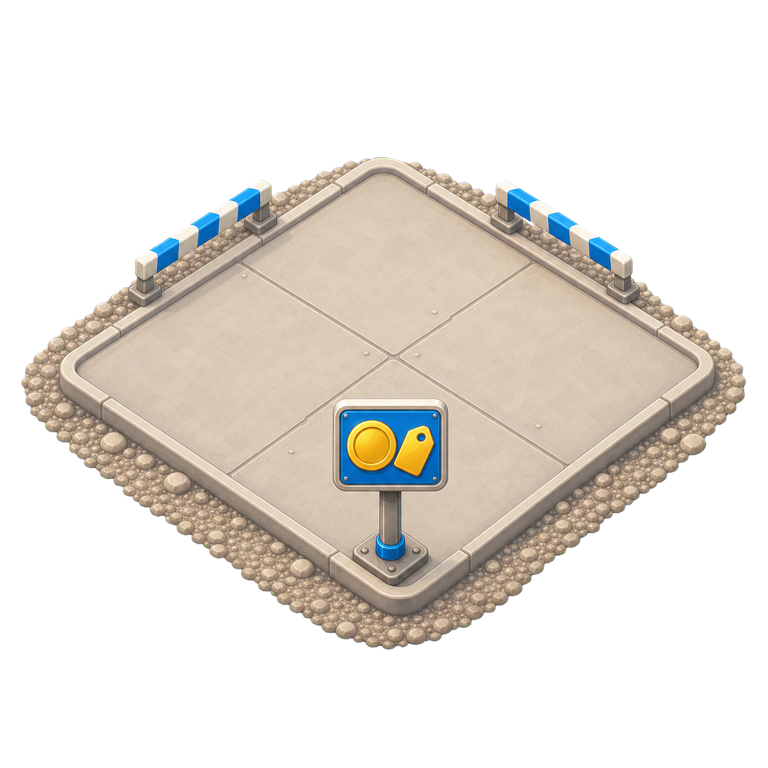
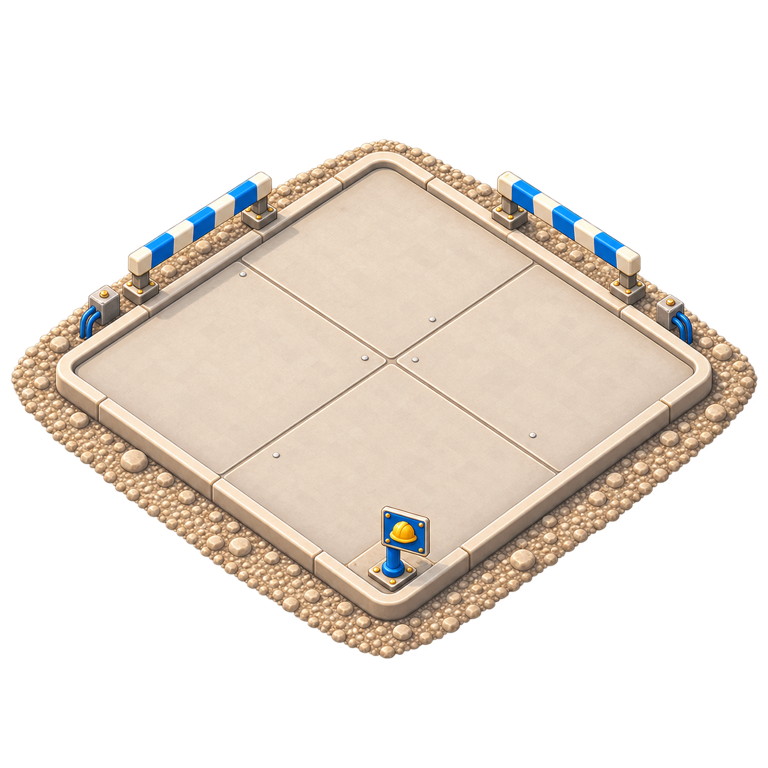
art: refresh five weak production assets

diff --git a/docs/23_asset_refresh_and_ship.md b/docs/23_asset_refresh_and_ship.md
@@ -1,0 +1,80 @@
+# 23 · 弱资产重做与 build 10 发船（Codex 执行文档）
+
+> 生成于 2026-08-28。方向已由项目所有者确认，作为本批次的**唯一执行依据**。
+> 前置阅读：[22_release_hardening.md](22_release_hardening.md) 与 [22_content_audit.md](22_content_audit.md) §2（五张弱资产的问题描述与重生成 prompt 已备好，本文不重复）。基线：`32af9cb`（22 号验收修复已入）。
+> **定性：美术替换 + 运维发船，零玩法改动。** 不改任何数值字段、不动随机流；20 种子模拟输出与基线逐字一致（19.3 天中位、23.67×）。
+
+## 1. 工作项
+
+### F1 · 先推送，补上 CI 远端证据
+
+1. `git push origin main`（当前 10 个本地 commit）。
+2. 等 GitHub Actions 完整跑一次（含 22 号新增的 tutorial_playthrough / main 分支 campaign / performance --ci / 六档视觉矩阵）。
+3. 把 run 链接填进 22 号验收记录那格未勾选的「远端 CI 证据」，勾掉它，单独提交。CI 若红，先修再继续——**红着不许进 F2**。
+
+### F2 · 五张弱资产重做（prompt 以 22_content_audit §2 为准）
+
+按顺序做，一张一验，全部走 `art-renders work/ → final/ → assets/art/` 管线 + `import_assets.py`，英文 prompt 全文入 `final_prompt_record.md`，E1 的导入分类由 `check_assets` 自动约束（fx_*/plot_* 归 vram_scene，panel/dialog 归 lossless_ui）。
+
+| 序 | 资产 | 额外纪律（prompt 之外必须遵守的） |
+|---|---|---|
+| 1 | `fx_glow_ring` | 13 号 FX 自毁与 ≤100u 预算不变；替换后跑 `performance_smoke` 确认粒子/节点仍零残留 |
+| 2 | `fx_confetti_set` | 同上；时代号外双喷彩屑的锚点与尺寸参数不动，只换贴图 |
+| 3 | `plot_forsale` | **先确认地图实际渲染的是哪个资产**——`park_map.gd` 存在 `plot_pad_sale` 优先、`plot_forsale` 回退的链路，重做玩家真正看到的那张；两张都在则保持链路语义不变 |
+| 4 | `panel_main` | 九宫格是 08/09 号的重灾区：新图必须**逐边实测边框厚度**（PIL 量法沿用 08 号），与 `ThemeMaker` 现有 texture_margin/content_margin 对齐；对不齐就改 margin 并全量视觉回归，绝不允许文字压框回归 |
+| 5 | `dialog_bubble` | 教程气泡已是「动态尾巴」系统（`a90067e` 重构）：先读现行 callout 代码消费哪些切片，按现行运行时契约交付无尾主体 + 分离尾巴件；不改 callout 逻辑 |
+
+**每张的验收**：涉及该资产的双语视觉状态前后对照入 `docs/ui_review/23_asset_refresh/`（fx 两张对 era_unlock/庆祝态、plot 对地图空场态、panel 对任一系统页、bubble 对教程聚光灯态）；`check_assets --strict` 全绿；替换不引入任何 .gd/.json 玩法改动。
+
+**全部完成后**：双语 standard 49 态 + SE/iPad 各 8 态全绿；`test_runner` / `flow_audit` / `midgame_audit` / `tutorial_playthrough` / `full_campaign` / `performance_smoke` 全绿；模拟器零漂移。
+
+### F3 · build 10 发 TestFlight
+
+1. F2 全绿并提交后，`git push origin main`，确认 CI 绿。
+2. 用 22 号的正式管线发船：`tools/release_ios.sh --bump --upload`（bump 后 build 号应为 10；export_presets 改动纳入提交）。
+3. 上传成功记录（`UPLOAD SUCCEEDED` 日志摘录 + xcarchive 归档到 `builds/archives/`）写进本文验收记录；`release_checklist.md` 同步。
+4. 若 ASC 报重复 build 号，按脚本提示再 `--bump`，如实记录原因。
+
+## 2. 明确不做
+
+- 只重做点名的五张；不顺手重做其他资产、不调整任何布局/配色/文案。
+- 不动 FX 参数、九宫格 margin 语义之外的任何 UI 代码；dialog_bubble 不改 callout 逻辑。
+- 商店截图、隐私链接、Instruments、StoreKit sandbox 仍属外部交付，不在本批。
+
+## 3. 给执行者的注意事项
+
+1. 美术生成不达标就重roll，不许降级合入——这五张全是「观感短板」名单，换上去必须明显更协调，拿不准就在前后对照里并排给出并停下等所有者裁决。
+2. `panel_main` 影响几乎每个系统页，是本批唯一的高爆改动：margin 实测数据（每边像素厚度）写进验收记录，全量 49 态跑两个 locale，重点看长文案页（设置、典藏、商店）。
+3. 发船前后各跑一次 `git status` 确认工作区全净；上传用的 IPA 备份到桌面，命名沿用 `DataCenterTycoon-1.0.0-build10.ipa`。
+4. 本文验收记录格式沿用 20/21/22 号，逐项附证据。
+
+## 4. 验收记录（2026-08-28）
+
+### F1 · 远端 CI 证据
+
+- [x] 基线后的 10 个本地提交已推送到 `origin/main`。
+- [x] 22 号新增门禁在 GitHub Actions 完整跑通：[CI run 33180099937](https://github.com/GaoJiasheng/DataCenterTycoon/actions/runs/33180099937)。该 run 覆盖 243 项逻辑、flow/midgame/tutorial/full campaign、performance `--ci`、standard/SE/iPad 中英视觉矩阵。
+- [x] 远端运行中暴露的跨 runner 设置拖动、显式预览尺寸、询价 fixture 漂移和棋盘换页竞态均先修至绿色；22 号验收记录的远端证据格已单独提交（`d68b0da`）。
+
+### F2 · 五张弱资产
+
+- [x] 五张资产严格按 `fx_glow_ring → fx_confetti_set → plot → panel_main → dialog_bubble` 顺序逐张生成、验图、导入；完整 prompt 与 ImageGen 源路径见 [最终 prompt 记录](../art-renders/briefs/final_prompt_record.md)。
+- [x] 地图实际消费链路经 `park_map.gd` 核实后替换 `plot_pad_sale`，保留 `plot_forsale` 缺失回退，未改链路语义。
+- [x] `panel_main` PIL 中心扫描：旧上/下/左/右为 `100/102/96/102px`，新图为 `96/102/92/93px`。现有 0.5 倍纹理 + 52u 切片折算为源图 104px，四边与角件均完整落入切片；56u 内容留白继续清出边框，因此 margin 无需改变。中英离线页、时代页未出现文字压框。
+- [x] `dialog_bubble` 运行时契约核实为：教程主体使用双层扁平组件，三层动态 `Polygon2D` 尾巴按目标中心放置；PNG 是未被现行教程消费的九宫格回退。新图仅含无尾主体，旧固定左尾已去除；新上/下/左/右边框实测 `57/56/50/49px`，回退接口切片校准为 `52/58/52/58`、内容留白为 `60/66/60/66`，未改 callout 逻辑。
+- [x] 原图及中英运行态前后证据集中在 [23_asset_refresh](ui_review/23_asset_refresh/README.md)；生成中淘汰了闭合圆环、假棋盘透明和深底失读稿，未把不达标结果降级合入。
+- [x] `python3 tools/check_assets.py --strict --audio`：180/180 美术、23/23 音频通过；FX/地图为 `vram_scene`，UI 九宫格为 `lossless_ui`。
+- [x] `test_runner` 243/243、`flow_audit`、`midgame_audit`、`tutorial_playthrough`、`full_campaign` 全绿；整局仍在同一局断言询价、成组、扩编与稀有锁价封顶。
[1 lines of base64/hex data omitted]
+- [x] `python3 tools/report_release_economy.py` 完整复跑：T2 六档 × 20 种子、工程部 L4、钻石三策略 × 三时代 × 20 种子均通过；三份 CSV 与基线字节一致，未产生数值报告漂移。
+- [x] standard 中英 49 态、SE 中英各 8 态、iPad 中英各 8 态全部通过；外部高负载退出后重新取样，未把受干扰的截帧当作证据。
+- [x] `performance_smoke` 在无外部探针竞争时重跑通过：平均 `6.95ms`、p90 `11.02ms`、p95 `15.46ms`；峰值 30 粒子归零、猫特效 `1→0`、节点增量 0。
+- [ ] F2 提交、推送及远端 CI 证据待上述本地门禁收口。
+
+### 已知外部发布交付（不在本批范围）
+
+- `check_app_store_assets.py` 仍报告缺失 iPhone/iPad 中英商店截图；`check_release.py` 另报告隐私/支持 URL、P04 与 StoreKit 插件占位。这些项目在本文 §2 明确属于外部交付，本批没有伪造或越权补齐。
+
+### F3 · build 10
+
+- [ ] 等 F2 推送且远端 CI 全绿后执行 `tools/release_ios.sh --bump --upload`。

diff --git a/art-renders/briefs/final_prompt_record.md b/art-renders/briefs/final_prompt_record.md
@@ -252,3 +252,57 @@ Shared production direction: one coherent orange tabby with cream muzzle/chest/p
 - `collection_cat_watch`: Cat watching the lit campus at twilight. Source: `/Users/gavin/.codex/generated_images/019fbe5f-c128-7711-b816-3e32148cf91a/exec-3b8cbfc1-cadf-4490-ad7b-bc4e2c9a55d7.png`
 - `collection_cat_festival`: Sunglasses cat celebrating a rare market with tasteful campus decorations. Source: `/Users/gavin/.codex/generated_images/019fbe5f-c128-7711-b816-3e32148cf91a/exec-1d637ca8-48d0-4b23-81a7-16535824c727.png`
 - `fx_cat_heart`: One warm coral painterly heart with tiny gold sparkles, transparent particle sprite. Source: `/Users/gavin/.codex/generated_images/019fbe5f-c128-7711-b816-3e32148cf91a/exec-c49ff4d9-5b81-4285-8293-fc8ea44a1edc.png`
+
+## 2026-08-28 · 23 号弱资产重做
+
+### `fx_glow_ring`
+
+```text
+A standalone transparent RGBA VFX sprite, 512x512 square, for a premium cozy isometric data-center tycoon. Show a low wide asymmetrical celebration bloom made of three OPEN wisps of soft electric-blue volumetric mist, small warm-gold glow pockets, and a restrained handful of tiny rising brass sparks. It sits behind and under a machine, so keep the center calm and the silhouette low. Absolutely no closed loop, no circle, no ring, no halo, no donut, no spiral, no geometric outline, no vertical laser beam, no magenta, no rainbow, no text, no border, no building, no ground plane. Premium rendered 3D game art, coherent top-left light, restrained blue/gold/ivory palette, organic falloff, readable but subtle at 128 px. REQUIRE genuine transparent alpha outside the effect. Do not draw a checkerboard, white background, black background, or any background pattern.
+```
+
+- ImageGen 原图：`/Users/gavin/.codex/generated_images/019fbe5f-c128-7711-b816-3e32148cf91a/exec-0ba8b80e-9ef4-4703-8251-aa7b2f1f76ba.png`
+- 管线源图：`visual/work/23_asset_refresh/fx/fx_glow_ring_source.png`
+- 正式交付：`visual/final/fx/fx_glow_ring.png`
+
+### `fx_confetti_set`
+
+```text
+Transparent premium isometric reward burst made from miniature gold server badges, blue data packets, tiny brass bolts and soft paper flecks; coherent top-left lighting, restrained blue/gold/ivory palette, varied depth and natural trajectories, no primitive circles, no candy shapes, no text, no frame. Asset type: standalone transparent RGBA celebration particle sprite for a premium cozy data-center mobile tycoon, 512x512 square composition, readable at 128 px. Each piece must be a small tactile rendered object with material and volume, arranged as an open upward burst with a calm center so it does not cover the building. Genuine transparent alpha only; do not draw a checkerboard or background pattern.
+```
+
+- ImageGen 原图：`/Users/gavin/.codex/generated_images/019fbe5f-c128-7711-b816-3e32148cf91a/exec-cc0f3597-f929-4977-8c6c-894336767dd8.png`
+- 管线源图：`visual/work/23_asset_refresh/fx/fx_confetti_set_source.png`
+- 正式交付：`visual/final/fx/fx_confetti_set.png`
+
+### `plot_pad_sale`
+
+```text
+Transparent isometric undeveloped parcel for a modern data-center campus, matching the existing blue/gold industrial buildings: compacted gravel and pale concrete survey corners, subtle conduit stubs, small blue construction marker, same camera and shadow direction as dc_t1, clean silhouette, no farm soil, no wooden fence, no text. Asset type: production-ready sale plot pad for a premium cozy mobile tycoon, 768x768 square, exact centered diamond/isometric footprint, coherent top-left light, warm cream concrete with restrained royal-blue and brass details, readable at map scale. Keep the construction marker small and off the main build footprint. Genuine transparent alpha outside the parcel; no checkerboard, no frame, no UI price tag, no characters.
+```
+
+- ImageGen 原图：`/Users/gavin/.codex/generated_images/019fbe5f-c128-7711-b816-3e32148cf91a/exec-6cffdce1-67a4-42b3-bc80-0bbe0f481162.png`
+- 管线源图：`visual/work/23_asset_refresh/map/plot_pad_sale_source.png`
+- 正式交付：`visual/final/map/plot_pad_sale.png`
+- 运行时选择：`park_map.gd` 优先读取 `plot_pad_sale`，因此按真实消费链路替换该资产，保留 `plot_forsale` 回退语义。
+
+### `panel_main`
+
+```text
+Create a production replacement for this exact light-content nine-slice UI asset, preserving its semantic contract: dark ink text will be rendered over the center, so the reading surface MUST remain warm low-glare ivory. Seamless nine-slice mobile-game page frame for a premium cozy data-center management game: restrained dark navy anodized outer frame, thin brushed-metal desaturated blue edge, subtle warm-gold fastener details only at corners, quiet warm-ivory center, generous safe slicing area, no text, no oversized cyan glow, transparent exterior. Perfectly front-facing flat orthographic 1024x1024 rounded square, exact centered symmetric geometry, four straight edges with identical thickness, matching corners, no perspective, no tilt. The central 75% must be nearly uniform matte ivory with extremely subtle paper grain and no vignette, so long dark text remains crisp. No ornaments except four small corner fasteners, no interior divider, no extra linework. Genuine RGBA alpha-zero transparency outside the rounded frame; do not draw a checkerboard, white/gray background, scene, canvas or visible backdrop.
+```
+
+- ImageGen 原图：`/Users/gavin/.codex/generated_images/019fbe5f-c128-7711-b816-3e32148cf91a/exec-0a8138be-ffd3-4e87-b7b2-af0609feb2c5.png`
+- 管线源图：`visual/work/23_asset_refresh/ui/panel_main_source.png`
+- 正式交付：`visual/final/ui/panel_main.png`
+
+### `dialog_bubble`
+
+```text
+Create the production tail-free BODY asset from this modular tutorial speech bubble kit prompt: Modular tutorial speech bubble kit on transparent background: one tail-free ivory rounded bubble plus separate centered/down-left/down-right pointer tails, premium soft enamel and restrained blue trim, consistent top-left light, large calm reading surface, no character, no text, no fixed pointer, nine-slice safe margins. Runtime contract for this file: the final 1024x512 canvas must contain ONLY the tail-free rounded rectangular bubble body; the centered/down-left/down-right pointer tails are already separate dynamic runtime pieces and must NOT be baked into this bitmap. Perfectly front-facing flat orthographic body, generous uniform quiet ivory reading surface, thin desaturated steel-blue enamel trim, subtle low-glare bevel, identical left/right and top/bottom corner geometry, no perspective, no bright cyan plastic, no screws, no icon, no shadow outside silhouette. Genuine alpha-zero transparent exterior; no checkerboard or visible background. Safe uninterrupted edge strips for nine-slice scaling.
+```
+
+- ImageGen 原图：`/Users/gavin/.codex/generated_images/019fbe5f-c128-7711-b816-3e32148cf91a/exec-d4005a54-223b-48ef-8812-f22eea776126.png`
+- 管线源图：`visual/work/23_asset_refresh/ui/dialog_bubble_source.png`
+- 正式交付：`visual/final/ui/dialog_bubble.png`
+- 运行时契约：教程主体和三层动态尾巴继续由 `TutorialOverlay` 分离绘制；本图只提供无尾九宫格回退主体。

diff --git a/docs/ui_review/23_asset_refresh/README.md b/docs/ui_review/23_asset_refresh/README.md
@@ -1,0 +1,44 @@
+# 23 号弱资产刷新视觉验收
+
+本目录按资产保存基线 `32af9cb` 与本批成品的原图、中文运行态、英文运行态。所有成品均按 `work/ → final/ → assets/art/` 导入；`check_assets --strict` 校验了 FX/地图使用 `vram_scene`，UI 九宫格使用 `lossless_ui`。
+
+## 1. `fx_glow_ring`
+
+- [旧原图](fx_glow_ring/before/asset.png) / [新原图](fx_glow_ring/after/asset.png)
+- 中文：[旧庆祝态](fx_glow_ring/before/zh_CN_construction_complete_fx.png) / [新庆祝态](fx_glow_ring/after/zh_CN_construction_complete_fx.png)
+- 英文：[旧庆祝态](fx_glow_ring/before/en_construction_complete_fx.png) / [新庆祝态](fx_glow_ring/after/en_construction_complete_fx.png)
+- 淘汰记录：首轮仍是闭合霓虹圆环；次轮把棋盘格烘进 RGB。最终稿是真透明、低矮、非闭合的蓝金体积雾与暖金火花。
+- 说明：当前施工完成态使用 `fx_dust_puff`，没有直接实例化 `fx_glow_ring`；运行态图证明替换未破坏庆祝流程，视觉差异以原图对照为权威证据。
+
+## 2. `fx_confetti_set`
+
+- [旧原图](fx_confetti_set/before/asset.png) / [新原图](fx_confetti_set/after/asset.png)
+- 中文：[旧时代庆祝](fx_confetti_set/before/zh_CN_era_unlock.png) / [新时代庆祝](fx_confetti_set/after/zh_CN_era_unlock.png)
+- 英文：[旧时代庆祝](fx_confetti_set/before/en_era_unlock.png) / [新时代庆祝](fx_confetti_set/after/en_era_unlock.png)
+- 新稿把通用彩色圆点、糖果条和星形替换为立体金色服务器徽章、蓝色数据包、黄铜螺栓与纸屑，开放中心不遮挡奖励正文。
+
+## 3. `plot_pad_sale`
+
+- [旧原图](plot_pad_sale/before/asset.png) / [新原图](plot_pad_sale/after/asset.png)
+- 中文：[旧地图空场](plot_pad_sale/before/zh_CN_map.png) / [新地图空场](plot_pad_sale/after/zh_CN_map.png)
+- 英文：[旧地图空场](plot_pad_sale/before/en_map.png) / [新地图空场](plot_pad_sale/after/en_map.png)
+- `park_map.gd` 的真实链路优先读取 `plot_pad_sale`，只在缺失时回退 `plot_forsale`；本批因此替换玩家实际看到的 `plot_pad_sale`，未改变回退语义。
+- 新稿使用数据中心园区的混凝土底盘、碎石边、蓝白护栏、预埋线缆和小型安全标识，不再出现农场木栅栏语言。
+
+## 4. `panel_main`
+
+- [旧原图](panel_main/before/asset.png) / [新原图](panel_main/after/asset.png)
+- 中文：[旧时代页](panel_main/before/zh_CN_era_unlock.png) / [新时代页](panel_main/after/zh_CN_era_unlock.png)；[旧离线页](panel_main/before/zh_CN_offline_reward.png) / [新离线页](panel_main/after/zh_CN_offline_reward.png)
+- 英文：[旧时代页](panel_main/before/en_era_unlock.png) / [新时代页](panel_main/after/en_era_unlock.png)；[旧离线页](panel_main/before/en_offline_reward.png) / [新离线页](panel_main/after/en_offline_reward.png)
+- PIL 中心扫描实测旧图装饰厚度：上 100 / 下 102 / 左 96 / 右 102px；新图：上 96 / 下 102 / 左 92 / 右 93px。
+- `ThemeFactory.art_panel` 以 0.5 倍纹理显示，现有 52u 切片等于源图 104px，完整包住新图四边装饰和角件；内容留白 56u 继续大于可见边框，因此无需改 margin。
+- 拒绝记录：一稿烘入棋盘格；二稿虽透明但把中心改成深蓝，会令现有深色正文失读。最终稿保留低眩光米白阅读面，只把玩具感青色粗框收敛为深蓝阳极氧化金属与暖金角件。
+
+## 5. `dialog_bubble`
+
+- [旧原图](dialog_bubble/before/asset.png) / [新原图](dialog_bubble/after/asset.png)
+- 中文：[旧教程态](dialog_bubble/before/zh_CN_ftue_spotlight.png) / [新教程态](dialog_bubble/after/zh_CN_ftue_spotlight.png)
+- 英文：[旧教程态](dialog_bubble/before/en_ftue_spotlight.png) / [新教程态](dialog_bubble/after/en_ftue_spotlight.png)
+- 现行 `TutorialOverlay` 已使用无拉伸的双层主体和三层动态 `Polygon2D` 尾巴；PNG 只保留九宫格回退接口。新图因此只交付无尾主体，未把任何左/中/右指针烘进位图，也未改 callout 定位逻辑。
+- PIL 实测旧图装饰厚度：上 57 / 下 126（含固定左尾）/ 左 54 / 右 56px；新图：上 57 / 下 56 / 左 50 / 右 49px。回退接口切片同步校准为 52/58/52/58，内容留白为 60/66/60/66。
+- 教程运行态在替换前后应保持相同，这是动态 callout 不消费该回退位图的契约证明；资产本身的固定尾巴消除以原图对照为准。
